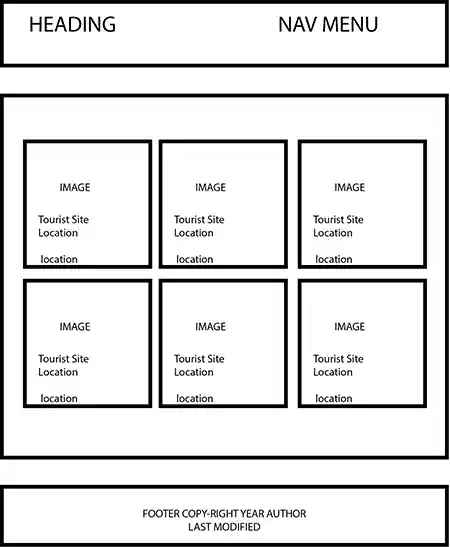
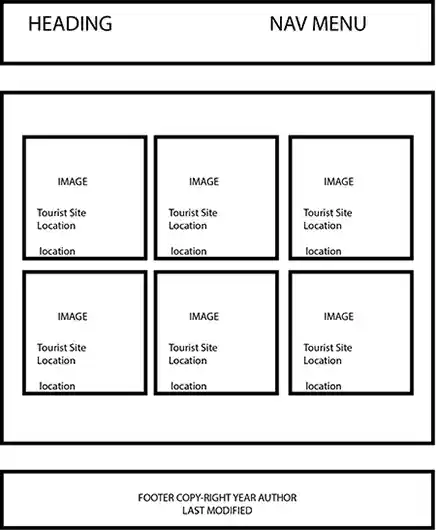
Fix siteplan layout

diff --git a/chamber/siteplan.html b/chamber/siteplan.html
@@ -10,6 +10,7 @@
     <link rel="icon" href="images/logo.ico">
     <link rel="stylesheet" href="styles/base.css">
     <link rel="stylesheet" href="styles/large.css">
+    <link rel="stylesheet" href="styles/siteplan.css">
     <script src="scripts/chamber.js" defer></script>
     <script src="scripts/apicall.mjs" defer></script>
     <link rel="preconnect" href="https://fonts.googleapis.com">
@@ -17,7 +18,7 @@
     <link
         href="https://fonts.googleapis.com/css2?family=Quicksand:wght@300..700&display=swap"
         rel="stylesheet">
-    <title>Accra Regional Chamber of Commerce</title>
+    <title>Project Site Plan</title>
 
     <!--Social Media Tags-->
     <meta property="og:title" content="Accra Regional Chamber of Commerce">
@@ -33,53 +34,64 @@
     <header>
         <img src="images/logo.png" alt="logo" loading="lazy" width="512"
             height="512">
-        <span>G/R Regional Chamber of Commerce</span>
+        <span>Site Plan</span>
         <button id="ham-btn" class="hamburger"
             aria-label="ham-burger menu icon"></button>
     </header>
-    <nav class="navigation" id="navigation">
+    <!-- <nav class="navigation" id="navigation">
         <ul>
             <li><a href="#">Home</a></li>
             <li><a href="directory.html">Directory</a></li>
             <li><a href="join.html">Join</a></li>
             <li><a href="discover.html">Discover</a></li>
         </ul>
-    </nav>
+    </nav> -->
     <main>
         <h1>Site Plan</h1>
-        <section id="site-name">
-            <h2>Site Name</h2>
-            <p>Easy-nav Ghana</p>
-        </section>
-        <section id="site-purpose">
-            <h2>Site Purpose</h2>
-            <p>The purpose of this site is to help tourist who are visiting navigate the country more easily</p>
-        </section>
-        <section id="colour-schema">
-            <h2>Colour Schema</h2>
-            <p>Primary colour: Light gray</p>
-            <p>Secondary colour: sea blue</p>
-            <p>Optional colour: Blue</p>
-        </section>
-        <section id="scenarios">
-            <h2>Scenarios</h2>
-            <p>Do I need a visa or any special entry documents?</p>
-            <p>What is the safest way to get around?</p>
-            <p>What local customes or etiquette should I know to avoid beign desrespectful?</p>
-            <p>What is the everyday use language and is English widely spoken?</p>
-            <p>What are the must-see places and experiences for first tie visitors?</p>
-            <p>What should I know about local laws, health concerns and emergency services?</p>
-        </section>
-        <section id="typography">
-            <h2>Typography</h2>
-            <p><b>Font</b>: Quicksand</p>
-            <p><b>Scope</b>All pages</p>           
-        </section>
-        <section id="wireframe">
-            <h2>Wireframe</h2>
-            <img src="images/wireframe-small.webp" alt="Wireframe-small" loading="lazy" id="small-img">
-            <img src="images/wireframe.webp" alt="Wireframe-large" loading="lazy" id="large-img">
-        </section>
+        <div id="proj-sections">
+            <section id="site-name">
+                <h2>Site Name</h2>
+                <p>Easy-nav Ghana</p>
+            </section>
+            <section id="site-purpose">
+                <h2>Site Purpose</h2>
+                <p>The purpose of this site is to help tourist who are visiting
+                    navigate the country more easily</p>
+            </section>
+            <section id="colour-schema">
+                <h2>Colour Schema</h2>
+                <p>Primary colour: Light gray</p>
+                <p>Secondary colour: sea blue</p>
+                <p>Optional colour: Blue</p>
+            </section>
+            <section id="scenarios">
+                <h2>Scenarios</h2>
+                <p>Do I need a visa or any special entry documents?</p>
+                <p>What is the safest way to get around?</p>
+                <p>What local customes or etiquette should I know to avoid beign
+                    desrespectful?</p>
+                <p>What is the everyday use language and is English widely
+                    spoken?</p>
+                <p>What are the must-see places and experiences for first tie
+                    visitors?</p>
+                <p>What should I know about local laws, health concerns and
+                    emergency services?</p>
+            </section>
+            <section id="typography">
+                <h2>Typography</h2>
+                <p><b>Font</b>: Quicksand</p>
+                <p><b>Scope</b>All pages</p>
+            </section>
+            <section id="wireframe">
+                <h2>Wireframe</h2>
+                <div><img src="images/wireframe-small.webp"
+                        alt="Wireframe-small" loading="lazy" id="small-img">
+                    <img src="images/wireframe.webp" alt="Wireframe-large"
+                        loading="lazy" id="large-img">
+                </div>
+            </section>
+        </div>
+
     </main>
     <footer>
         <div class="general">

diff --git a/chamber/styles/siteplan.css b/chamber/styles/siteplan.css
@@ -1,0 +1,29 @@
+#wireframe img{
+    margin-top: 10px;
+    gap: 6px;
+}
+
+#wireframe div {
+    display: flex;
+    justify-content: center;
+    align-items: center;
+    gap: 6px;
+}
+
+#wireframe {
+    grid-row: 4;
+    grid-column: 1/-1;
+    height: auto;
+}
+
+#proj-sections {
+    display: grid;
+    grid-template-columns: repeat(2, 1fr);
+    grid-template-rows: repeat(3, .5fr) 1.6fr;
+}
+
+#scenarios {
+    grid-column: 2;
+    grid-row: 2/4
+}
+